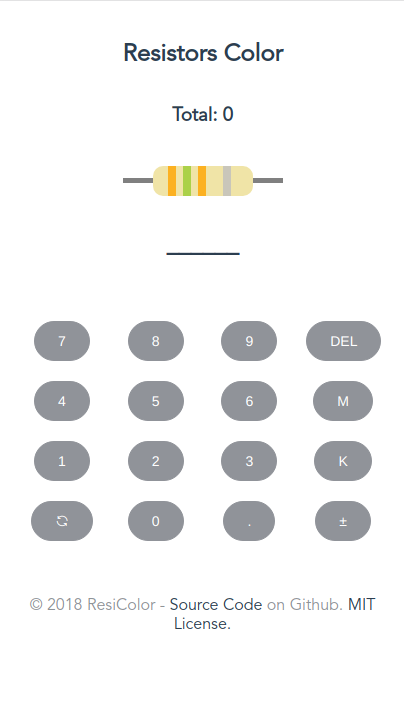
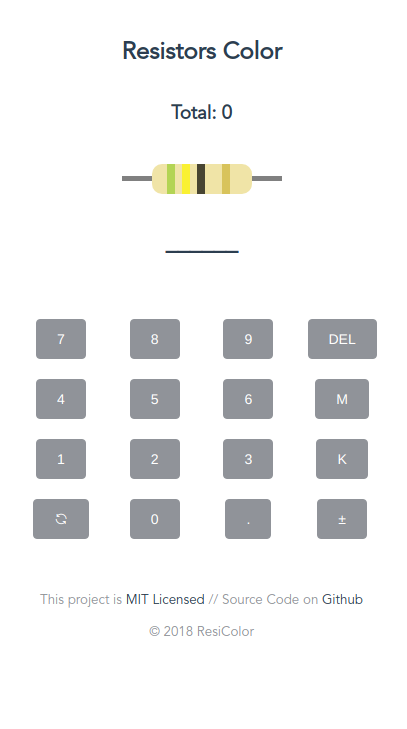
renew screenshots

diff --git a/README.md b/README.md
@@ -17,7 +17,7 @@
   </a>
 </p>
 
-## ScreenShot
+## ScreenShots
 
 ![ScreenShot](https://wilicw.github.io/resicolor/screen0.png)
 ![ScreenShot1](https://wilicw.github.io/resicolor/screen1.png)
@@ -56,6 +56,7 @@ $ npm run lint
 ## Contribute
 
 Please do contribute! Issues and pull requests are welcome.
+
 Thank you for your help improving this project!
 
 ## License
